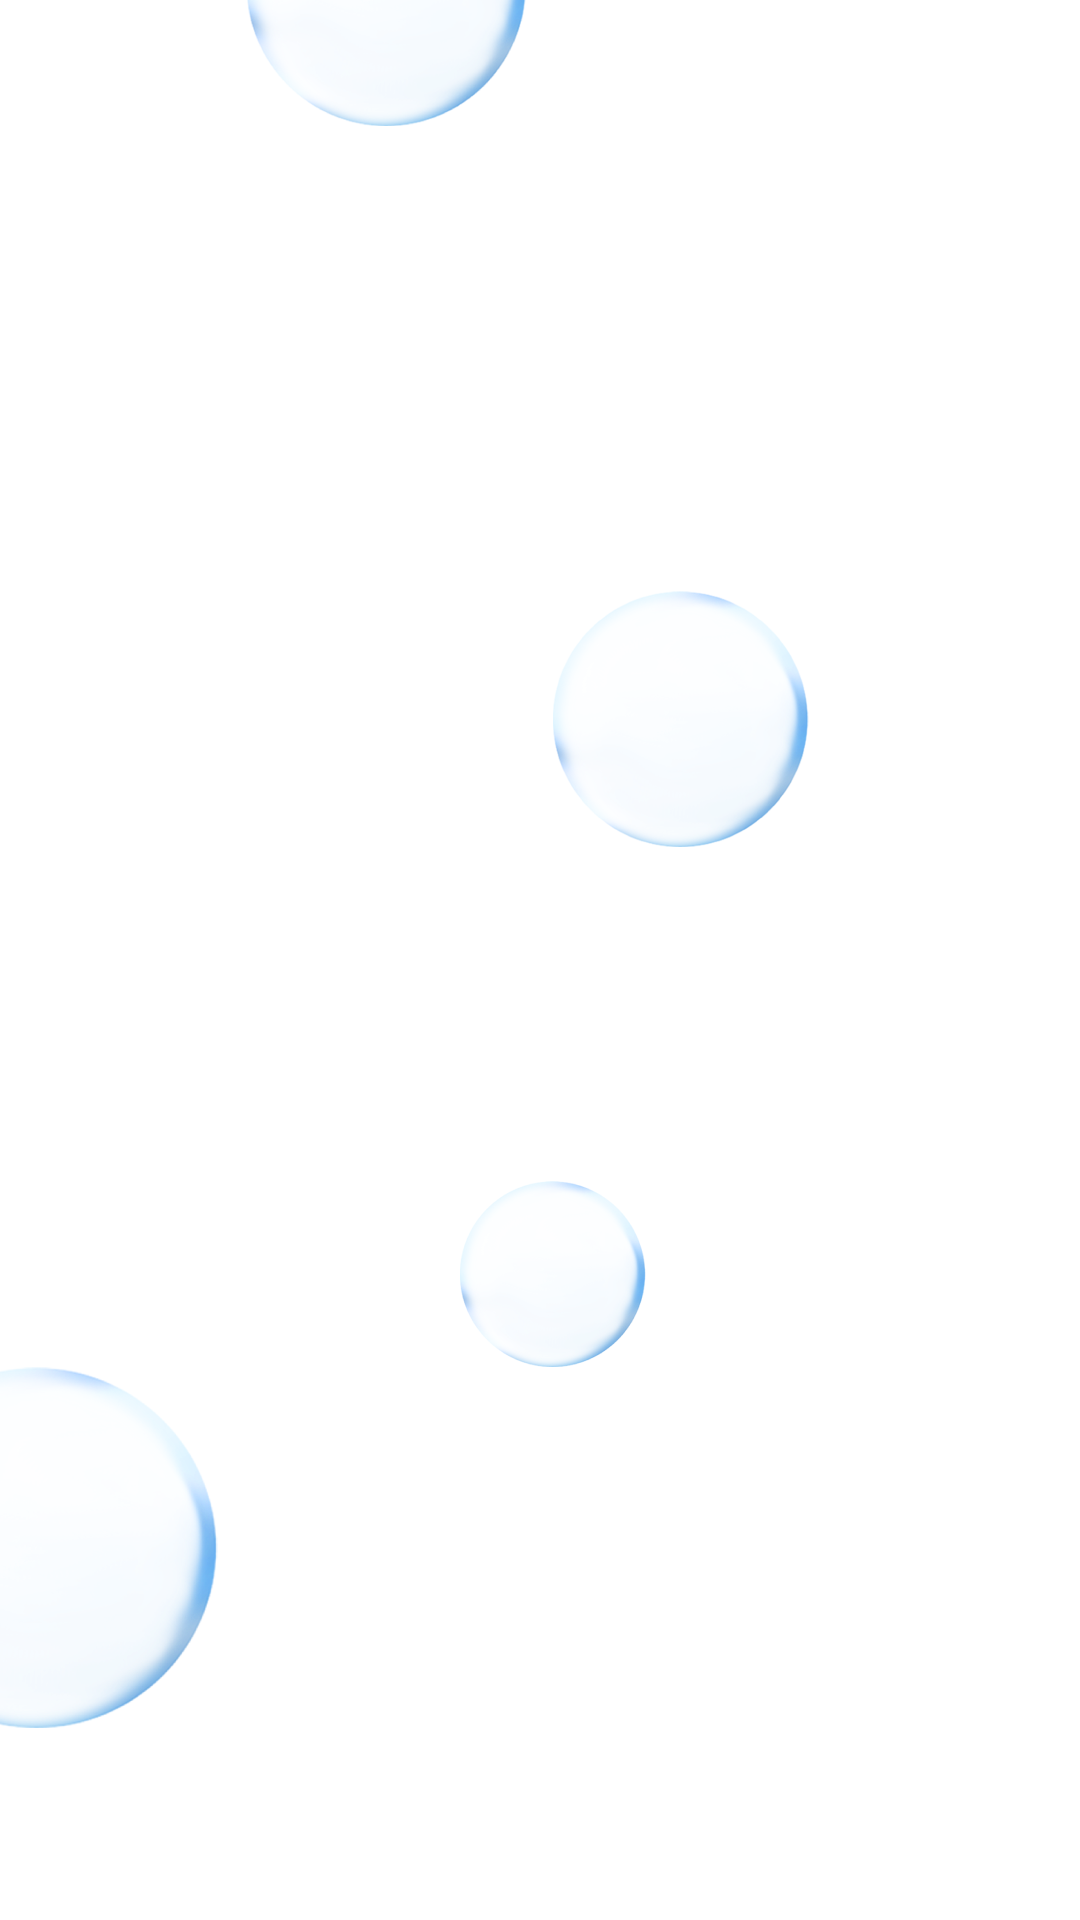
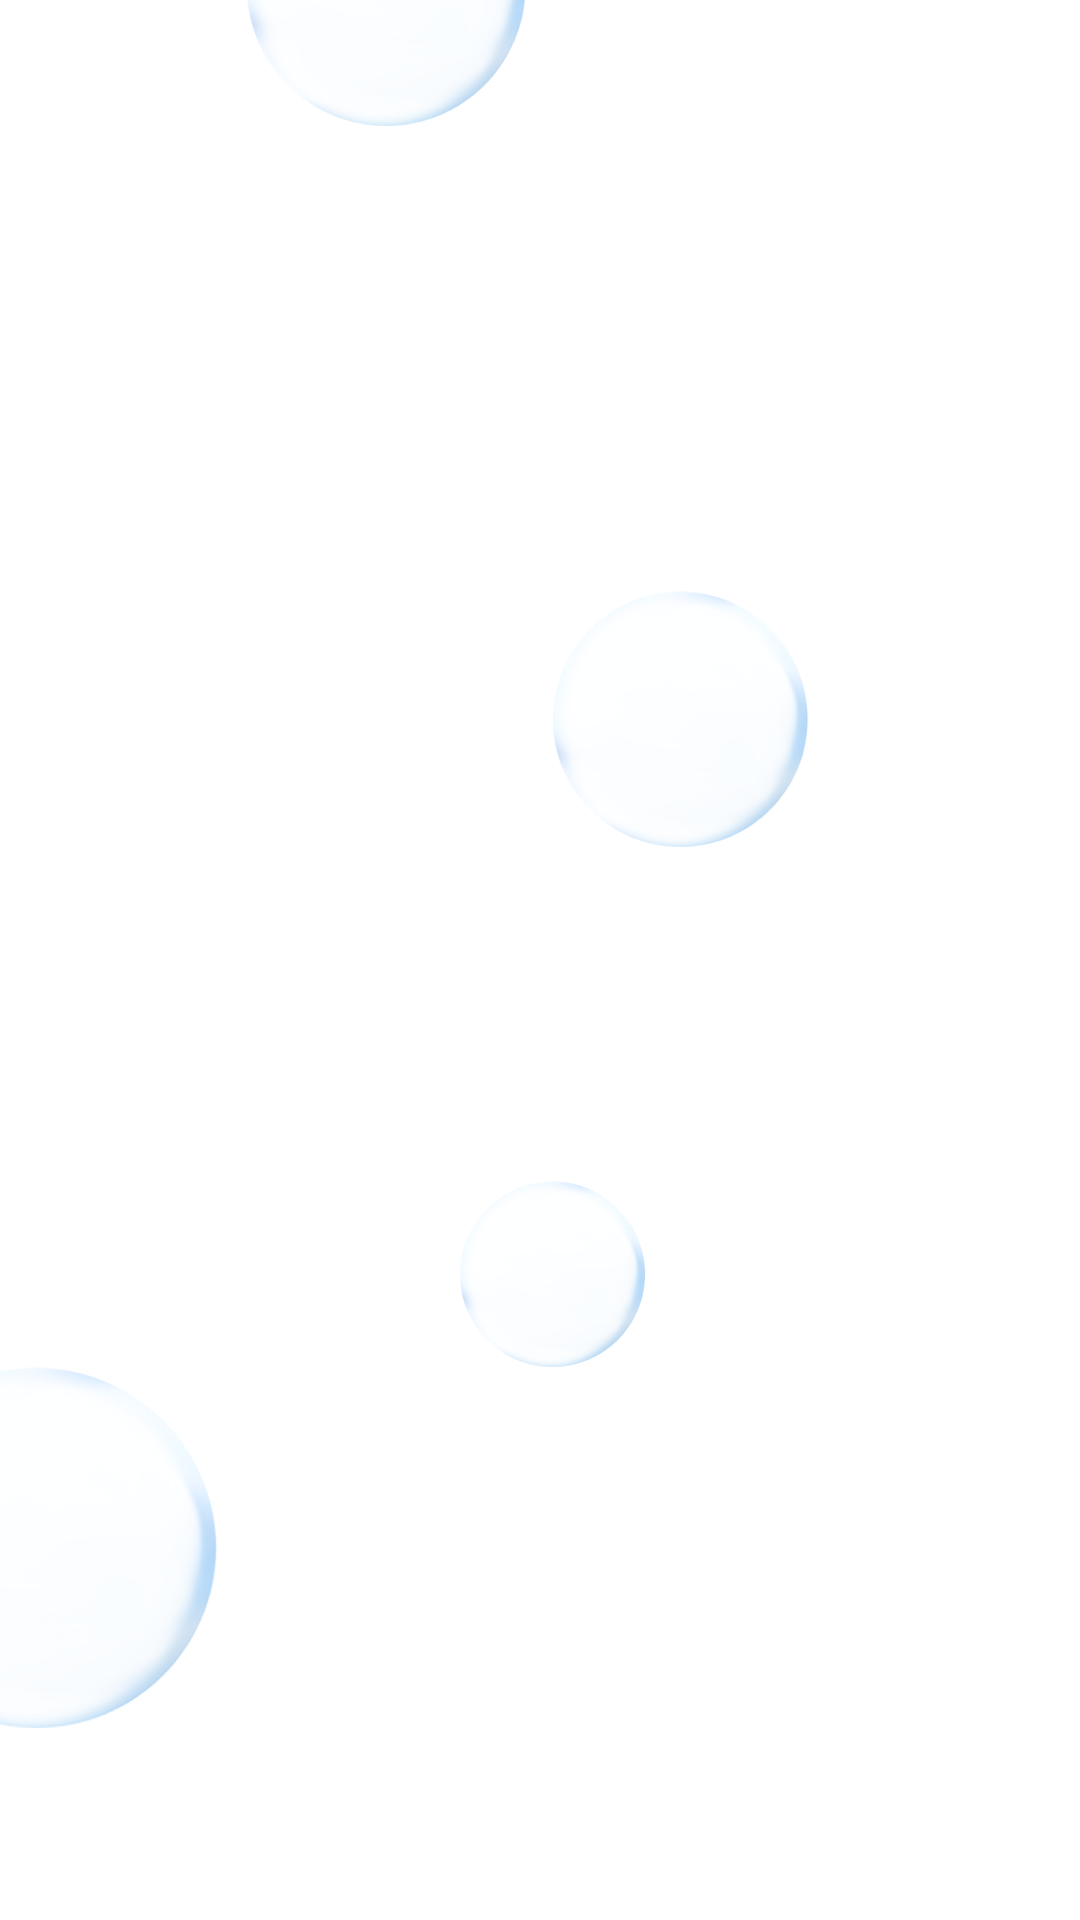
adjust background image

diff --git a/assets/styles.css b/assets/styles.css
@@ -44,12 +44,10 @@ textarea{
 
 #bg-1{
     background-image: url("../assets/images/desktop-bg-1.png");
-    opacity: .5;
 }
 
 #bg-2{
     background-image: url("../assets/images/desktop-bg-2.png");
-    opacity: .5;
 }
 
 #bg-1, #bg-2{
